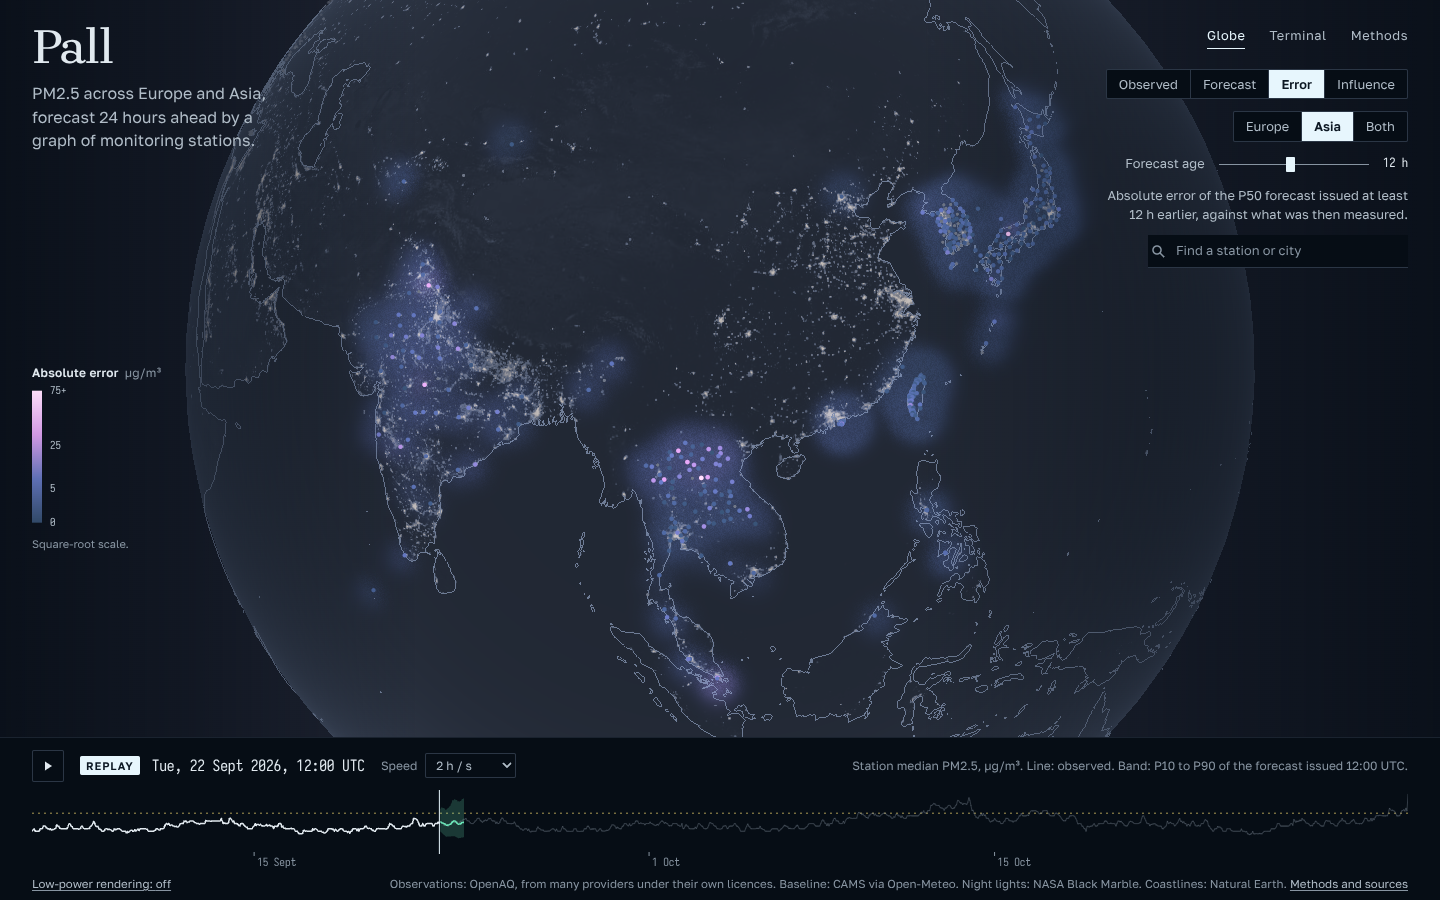
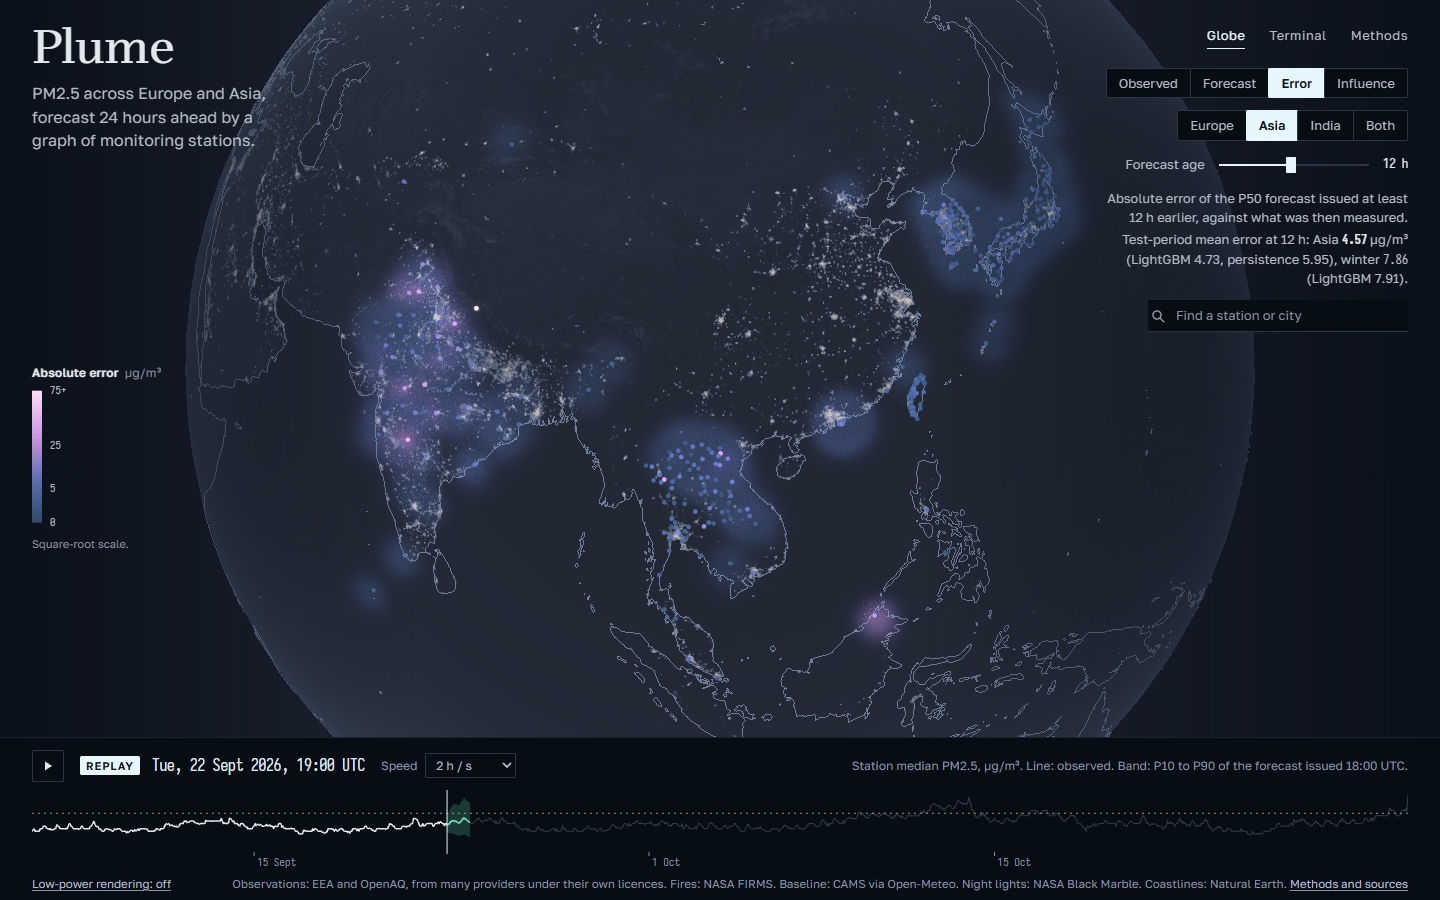
India error figures, faster Terminal start, fresh screenshots
The Globe's error layer states the test-period mean error for the region in view, with LightGBM,
persistence and the winter test beside it; for India these are the Indian stations scored on their own.
In the India view the Terminal scoreboard shows India and India in winter.

Switching to the Terminal no longer recomputes the replay-wide station median: it is computed once per
region view and kept, the median sorts a typed array, and dates use shared formatters. The longest task
on the switch drops from about 390 ms to about 140 ms.

Screenshots in docs/screenshots are retaken from the current build.

diff --git a/web/src/views/TerminalView.tsx b/web/src/views/TerminalView.tsx
@@ -13,10 +13,7 @@ import { StationDetail } from '../ui/Drawer'
 import { Timeline } from '../ui/Timeline'
 import { norm, searchStations, useStationIndex } from '../ui/Search'
 import { Wordmark } from '../ui/Loader'
-import mainResults from '@results/main.json'
-
-type Scores = Record<string, { mae: number[]; rmse: number[]; skill: number[]; mae_sd?: number[] }>
-const RES = mainResults as unknown as Record<RegionKey, { chosen: string; test: Scores }> & { commit: string }
+import { COMMIT, INDIA_STATIONS, SCORE_NAME, testScores, winterScores, type Scores } from '../lib/scores'
 const MODEL_ROWS: [string, string][] = [['plume', 'Plume graph model'], ['lightgbm', 'LightGBM, no graph'], ['persistence', 'Persistence'], ['seasonal_naive', 'Same hour yesterday'], ['cams', 'CAMS via Open-Meteo']]
 const PANELS = ['watch', 'movers', 'alerts', 'score', 'compare', 'detail'] as const
 type PanelKey = (typeof PANELS)[number]
@@ -216,6 +213,11 @@ export default function TerminalView() {
   const upF = [...validF].sort((a, b) => b.dF - a.dF).slice(0, 4), dnF = [...validF].sort((a, b) => a.dF - b.dF).slice(0, 4)
   const ticker = rowsAll.filter((r) => r.major && Number.isFinite(r.now))
   const date = hourToDate(ds.europe, hour)
+  // the India view scores the Indian stations on their own, in the main test and the winter test
+  const indiaWinter = winterScores('india')
+  const scoreCols: { key: string; label: string; t: Scores }[] = region === 'india'
+    ? [{ key: 'india', label: SCORE_NAME.india, t: testScores('india') }, ...(indiaWinter ? [{ key: 'india-w', label: 'India, winter', t: indiaWinter }] : [])]
+    : REGIONS.map((r) => ({ key: r, label: SCORE_NAME[r], t: testScores(r) }))
   const issue = hourToDate(ds.europe, originHour(ds.europe, originIndex(ds.europe, hour)))
   useEffect(() => { if (!getState().sel) { const d = rowsAll.find((r) => r.region === 'asia' && r.major) ?? rowsAll[0]; if (d) pick(d) } }, []) // eslint-disable-line
   const moverTable = (title: string, list: CityRow[], key: 'd6' | 'dF') => (
@@ -288,13 +290,13 @@ export default function TerminalView() {
         </Panel>
         <Panel id="score" title="Scoreboard" aside={`test period · MAE µg/m³ at +${horizon} h · skill vs persistence`}>
           <table className="tt score">
-            <thead><tr><th scope="col">Model</th>{REGIONS.map((r) => <th key={r} scope="colgroup" colSpan={2}>{r === 'europe' ? 'Europe' : 'Asia'}</th>)}</tr></thead>
+            <thead><tr><th scope="col">Model</th>{scoreCols.map((c) => <th key={c.key} scope="colgroup" colSpan={2}>{c.label}</th>)}</tr></thead>
             <tbody>
               {MODEL_ROWS.map(([k, name]) => (
                 <tr key={k} className={k === 'plume' ? 'ours' : ''}>
                   <th scope="row">{name}</th>
-                  {REGIONS.map((r) => {
-                    const t = RES[r].test, m = t[k]
+                  {scoreCols.map(({ key: r, t }) => {
+                    const m = t[k]
                     if (!m) return [<td key={r}>–</td>, <td key={r + 's'} />]
                     const best = MODEL_ROWS.map(([j]) => t[j]?.mae[horizon - 1] ?? Infinity)
                     const win = m.mae[horizon - 1] === Math.min(...best)
@@ -307,7 +309,7 @@ export default function TerminalView() {
               ))}
             </tbody>
           </table>
-          <p className="foot">Read from results/main.json (commit {RES.commit}). CAMS is a stitched short-lead series, not a true {horizon} h forecast, and its grid is 0.1° in Europe but 0.4° in Asia.</p>
+          <p className="foot">Read from results/main.json (commit {COMMIT}).{region === 'india' && ` India is the ${INDIA_STATIONS} Indian stations of the Asia model, scored on their own (results/slices.json); winter is the separate December to February test.`} CAMS is a stitched short-lead series, not a true {horizon} h forecast, and its grid is 0.1° in Europe but 0.4° in Asia.</p>
         </Panel>
         <Panel id="compare" title="Region compare" aside="now, observed">
           <table className="tt compare">
@@ -321,7 +323,7 @@ export default function TerminalView() {
                   <tr><th scope="row">Stations above WHO 15</th>{REGIONS.map((r) => <td key={r}><Val v={s[r].shareAbove * 100} /> %</td>)}</tr>
                   <tr><th scope="row">Stations reporting</th>{REGIONS.map((r) => <td key={r}>{s[r].reporting} / {ds[r].n}</td>)}</tr>
                   <tr><th scope="row">Forecast error now, +{horizon} h, µg/m³</th>{REGIONS.map((r) => <td key={r}><Val v={live(r)} d={2} /></td>)}</tr>
-                  <tr><th scope="row">Test-period MAE, +{horizon} h, µg/m³</th>{REGIONS.map((r) => <td key={r}>{RES[r].test.plume?.mae[horizon - 1].toFixed(2) ?? '–'}</td>)}</tr>
+                  <tr><th scope="row">Test-period MAE, +{horizon} h, µg/m³</th>{REGIONS.map((r) => <td key={r}>{testScores(r).plume?.mae[horizon - 1].toFixed(2) ?? '–'}</td>)}</tr>
                   <tr><th scope="row">Graph edges</th>{REGIONS.map((r) => <td key={r}>{ds[r].edges.length.toLocaleString('en-GB')}</td>)}</tr>
                 </>)
               })()}

diff --git a/web/src/ui/Timeline.tsx b/web/src/ui/Timeline.tsx
@@ -2,12 +2,31 @@ import { useMemo, useRef } from 'react'
 import { scaleLinear } from 'd3-scale'
 import { line, area } from 'd3-shape'
 import { useData } from '../App'
-import { REGIONS, hourToDate, median, obsAt, originIndex, originHour, fcAt } from '../lib/data'
-import { clockRange, inView, stationInView } from '../lib/derive'
-import { setState, useStore, useHour } from '../lib/store'
+import { REGIONS, hourToDate, median, obsAt, originIndex, originHour, fcAt, type RegionKey } from '../lib/data'
+import { clockRange, inView, stationInView, type DataSet } from '../lib/derive'
+import { setState, useStore, useHour, type RegionView } from '../lib/store'
 import { useSize } from '../lib/useSize'
-import { IconPause, IconPlay, utc } from './bits'
+import { DAY_MONTH, IconPause, IconPlay, utc } from './bits'
 import { WHO_24H } from '../lib/pm'
+
+// The observed median for every replay hour is the slow part (hours x stations), and both views mount a timeline.
+// It depends only on the data and the region view, so it is computed once per pair and kept.
+const seriesCache = new WeakMap<DataSet, Map<RegionView, [number, number][]>>()
+function medianSeries(ds: DataSet, view: RegionView, min: number, max: number) {
+  let byView = seriesCache.get(ds)
+  if (!byView) seriesCache.set(ds, (byView = new Map()))
+  const hit = byView.get(view)
+  if (hit) return hit
+  const cols: [RegionKey, number][] = []
+  for (const r of REGIONS) if (inView(view, r)) for (let s = 0; s < ds[r].n; s++) if (stationInView(view, ds[r], s)) cols.push([r, s])
+  const out: [number, number][] = [], v = new Float64Array(cols.length)
+  for (let t = min - 24; t <= max + 24; t++) {
+    for (let i = 0; i < cols.length; i++) v[i] = obsAt(ds[cols[i][0]], t, cols[i][1])
+    out.push([t, median(v)])
+  }
+  byView.set(view, out)
+  return out
+}
 
 /** Full-width scrubber: station-median PM2.5 across the replay, solid behind "now", forecast band ahead of it. */
 export function Timeline({ compact }: { compact?: boolean }) {
@@ -18,15 +37,7 @@ export function Timeline({ compact }: { compact?: boolean }) {
   const [ref, { w }] = useSize<HTMLDivElement>()
   const h = compact ? 44 : 64
   const { min, max } = clockRange(ds)
-  const series = useMemo(() => {
-    const out: [number, number][] = []
-    for (let t = min - 24; t <= max + 24; t++) {
-      const v: number[] = []
-      for (const r of REGIONS) if (inView(view, r)) for (let s = 0; s < ds[r].n; s++) if (stationInView(view, ds[r], s)) v.push(obsAt(ds[r], t, s))
-      out.push([t, median(v)])
-    }
-    return out
-  }, [ds, view, min, max])
+  const series = useMemo(() => medianSeries(ds, view, min, max), [ds, view, min, max])
   const o = originIndex(ds.europe, hour)
   const band = useMemo(() => {
     const out: { t: number; p10: number; p50: number; p90: number }[] = []
@@ -53,8 +64,11 @@ export function Timeline({ compact }: { compact?: boolean }) {
   }
   const date = hourToDate(ds.europe, hour)
   // month/day ticks
-  const ticks: number[] = []
-  for (let t = min; t <= max; t++) { const d = hourToDate(ds.europe, t); if (d.getUTCHours() === 0 && (d.getUTCDate() === 1 || d.getUTCDate() === 15)) ticks.push(t) }
+  const ticks = useMemo(() => {
+    const out: number[] = []
+    for (let t = min; t <= max; t++) { const d = hourToDate(ds.europe, t); if (d.getUTCHours() === 0 && (d.getUTCDate() === 1 || d.getUTCDate() === 15)) out.push(t) }
+    return out
+  }, [ds, min, max])
   return (
     <section className={`timeline${compact ? ' compact' : ''}`} aria-label="Replay timeline">
       <div className="tl-head">
@@ -86,7 +100,7 @@ export function Timeline({ compact }: { compact?: boolean }) {
             {ticks.map((t) => (
               <g key={t}>
                 <line x1={x(t)} x2={x(t)} y1={h - 2} y2={h + 2} className="tl-tick" />
-                <text x={x(t) + 3} y={h + 12} className="tick">{hourToDate(ds.europe, t).toLocaleString('en-GB', { day: 'numeric', month: 'short', timeZone: 'UTC' })}</text>
+                <text x={x(t) + 3} y={h + 12} className="tick">{DAY_MONTH.format(hourToDate(ds.europe, t))}</text>
               </g>
             ))}
             <path d={ln(future) ?? ''} className="tl-future" />

diff --git a/web/src/views/GlobeView.tsx b/web/src/views/GlobeView.tsx
@@ -6,6 +6,7 @@ import { type RegionKey } from '../lib/data'
 import { stationValue } from '../lib/derive'
 import { setState, useStore, useHour, type Mode, type RegionView } from '../lib/store'
 import { fmt } from '../lib/pm'
+import { SCORE_NAME, scoreKeys, testScores, winterScores } from '../lib/scores'
 import { LensNav, Segmented } from '../ui/bits'
 import { Timeline } from '../ui/Timeline'
 import { Legend } from '../ui/Legend'
@@ -25,6 +26,25 @@ const MODE_NOTE: Record<Mode, (h: number) => string> = {
   forecast: (h) => `Median (P50) forecast for ${h} h after the replay time, from the latest 6-hourly issue.`,
   error: (h) => `Absolute error of the P50 forecast issued at least ${h} h earlier, against what was then measured.`,
   influence: () => 'Arcs show the graph edges the model weights most for this issue; they brighten toward the receiving station.',
+}
+
+/** What the error layer adds up to over the whole test period, for the stations in view. */
+function ErrorScores({ region, horizon }: { region: RegionView; horizon: number }) {
+  const h = horizon - 1
+  return (
+    <p className="g-note g-scores">
+      Test-period mean error at {horizon} h:{' '}
+      {scoreKeys(region).map((k, i) => {
+        const t = testScores(k), w = winterScores(k)
+        return (
+          <span key={k}>
+            {i > 0 && '; '}{SCORE_NAME[k]} <strong className="num">{t.plume.mae[h].toFixed(2)}</strong> µg/m³ (LightGBM {t.lightgbm.mae[h].toFixed(2)}, persistence {t.persistence.mae[h].toFixed(2)})
+            {region !== 'both' && w?.plume && <>, winter <span className="num">{w.plume.mae[h].toFixed(2)}</span> (LightGBM {w.lightgbm.mae[h].toFixed(2)})</>}
+          </span>
+        )
+      })}.
+    </p>
+  )
 }
 
 export function GlobeView() {
@@ -54,6 +74,7 @@ export function GlobeView() {
           </label>
         )}
         <p className="g-note">{MODE_NOTE[mode](horizon)}</p>
+        {mode === 'error' && <ErrorScores region={region} horizon={horizon} />}
         <StationSearch />
       </div>
       <Legend />

diff --git a/web/src/lib/scores.ts b/web/src/lib/scores.ts
@@ -1,0 +1,24 @@
+// Test-period scores for each region view. Europe and Asia come from results/main.json; India is the
+// Indian stations of the Asia model, scored on their own (results/slices.json). Winter figures are the
+// separate winter test (results/winter.json, slices.json for India).
+import mainResults from '@results/main.json'
+import slices from '@results/slices.json'
+import winter from '@results/winter.json'
+import type { RegionView } from './store'
+
+export type Scores = Record<string, { mae: number[]; rmse: number[]; skill: number[]; mae_sd?: number[] }>
+export type ScoreKey = 'europe' | 'asia' | 'india'
+
+const MAIN = mainResults as unknown as Record<'europe' | 'asia', { test: Scores }> & { commit: string }
+const INDIA = (slices as unknown as { asia: { india: { stations: number; test: Scores; winter: Scores } } }).asia.india
+const WINTER = winter as unknown as Record<'europe' | 'asia', Scores | null>
+
+export const COMMIT = MAIN.commit
+export const INDIA_STATIONS = INDIA.stations
+export const SCORE_NAME: Record<ScoreKey, string> = { europe: 'Europe', asia: 'Asia', india: 'India' }
+
+export const testScores = (k: ScoreKey): Scores => (k === 'india' ? INDIA.test : MAIN[k].test)
+export const winterScores = (k: ScoreKey): Scores | null => (k === 'india' ? INDIA.winter : WINTER[k])
+
+/** The score sets a region view reports: one per region, or both regions for 'both'. */
+export const scoreKeys = (view: RegionView): ScoreKey[] => (view === 'both' ? ['europe', 'asia'] : [view])

diff --git a/web/src/charts/StationChart.tsx b/web/src/charts/StationChart.tsx
@@ -4,6 +4,7 @@ import { line, area, curveMonotoneX } from 'd3-shape'
 import { type RegionData, obsAt, originIndex, originHour, fcAt, lgbAt, lastObs, hourToDate } from '../lib/data'
 import { useStore, setState } from '../lib/store'
 import { WHO_24H } from '../lib/pm'
+import { MONTH } from '../ui/bits'
 
 const PAST = 48
 interface Props { d: RegionData; s: number; hour: number; width: number; height: number; dense?: boolean }
@@ -40,7 +41,7 @@ export function StationChart({ d, s, hour, width, height, dense }: Props) {
   const p50 = line<{ h: number; p50: number }>().x((p) => x(p.h)).y((p) => y(p.p50)).curve(curveMonotoneX)
   const ticksX: number[] = []
   for (let h = Math.ceil((hour - PAST) / 12) * 12; h <= model.oh + d.horizons; h += 12) ticksX.push(h)
-  const fmtTick = (h: number) => { const t = hourToDate(d, h); return t.getUTCHours() === 0 ? `${t.getUTCDate()} ${t.toLocaleString('en', { month: 'short', timeZone: 'UTC' })}` : `${String(t.getUTCHours()).padStart(2, '0')}:00` }
+  const fmtTick = (h: number) => { const t = hourToDate(d, h); return t.getUTCHours() === 0 ? `${t.getUTCDate()} ${MONTH.format(t)}` : `${String(t.getUTCHours()).padStart(2, '0')}:00` }
   const keys = ['persistence', 'seasonal', 'lightgbm', 'cams'] as const
   const names = { persistence: 'Persistence', seasonal: 'Same hour yesterday', lightgbm: 'LightGBM', cams: 'CAMS' }
   const dash = { persistence: '1 3', seasonal: '5 3', lightgbm: '2 2', cams: '8 3 1 3' }

diff --git a/web/src/lib/data.ts b/web/src/lib/data.ts
@@ -147,11 +147,14 @@ export function lastObs(d: RegionData, hour: number, s: number): number {
 
 export const hourToDate = (d: RegionIndex, hour: number) => new Date(Date.parse(d.t0 + 'Z') + hour * 3600e3)
 
-export function median(xs: number[]): number {
-  const a = xs.filter((x) => Number.isFinite(x)).sort((p, q) => p - q)
-  if (!a.length) return NaN
-  const m = a.length >> 1
-  return a.length % 2 ? a[m] : (a[m - 1] + a[m]) / 2
+export function median(xs: ArrayLike<number>): number {
+  // a typed array sorts numerically without a comparator, several times faster on the timeline's thousands of calls
+  const a = new Float64Array(xs.length)
+  let n = 0
+  for (let i = 0; i < xs.length; i++) if (Number.isFinite(xs[i])) a[n++] = xs[i]
+  if (!n) return NaN
+  const b = a.subarray(0, n).sort(), m = n >> 1
+  return n % 2 ? b[m] : (b[m - 1] + b[m]) / 2
 }
 
 /** Stations feeding `s` in the graph, with the model's edge weight at issue o, strongest first. */

diff --git a/web/src/ui/bits.tsx b/web/src/ui/bits.tsx
@@ -59,8 +59,13 @@ export function Delta({ v, digits = 1, unit }: { v: number; digits?: number; uni
   )
 }
 
+// formatters are built once: toLocaleString builds a new one on every call, which adds up at replay speed
+const DATE_LONG = new Intl.DateTimeFormat('en-GB', { weekday: 'short', day: 'numeric', month: 'short', year: 'numeric', timeZone: 'UTC' })
+export const DAY_MONTH = new Intl.DateTimeFormat('en-GB', { day: 'numeric', month: 'short', timeZone: 'UTC' })
+export const MONTH = new Intl.DateTimeFormat('en', { month: 'short', timeZone: 'UTC' })
+
 export const utc = (d: Date, withDate = true) => {
   const hh = String(d.getUTCHours()).padStart(2, '0')
   if (!withDate) return `${hh}:00`
-  return `${d.toLocaleString('en-GB', { weekday: 'short', day: 'numeric', month: 'short', year: 'numeric', timeZone: 'UTC' })}, ${hh}:00 UTC`
+  return `${DATE_LONG.format(d)}, ${hh}:00 UTC`
 }

diff --git a/web/src/styles/globe.css b/web/src/styles/globe.css
@@ -13,6 +13,8 @@
 .g-controls { position: absolute; right: var(--s-6); top: var(--s-5); display: flex; flex-direction: column; align-items: flex-end; gap: var(--s-3); max-width: 430px; }
 .g-controls .lens { margin-bottom: var(--s-2); }
 .g-note { font-size: var(--t--1); color: var(--fg-2); text-align: right; max-width: 40ch; line-height: 1.45; text-wrap: pretty; }
+.g-scores { color: var(--fg-2); margin-top: calc(-1 * var(--s-2)); }
+.g-scores strong { color: var(--fg); font-weight: 600; }
 .g-horizon { display: flex; align-items: center; gap: var(--s-3); font-size: var(--t--1); color: var(--fg-2); }
 .g-horizon output { min-width: 4ch; text-align: right; color: var(--fg); }
 input[type='range'] { appearance: none; height: 20px; background: transparent; width: 150px; cursor: pointer; --fill: 50%; }
